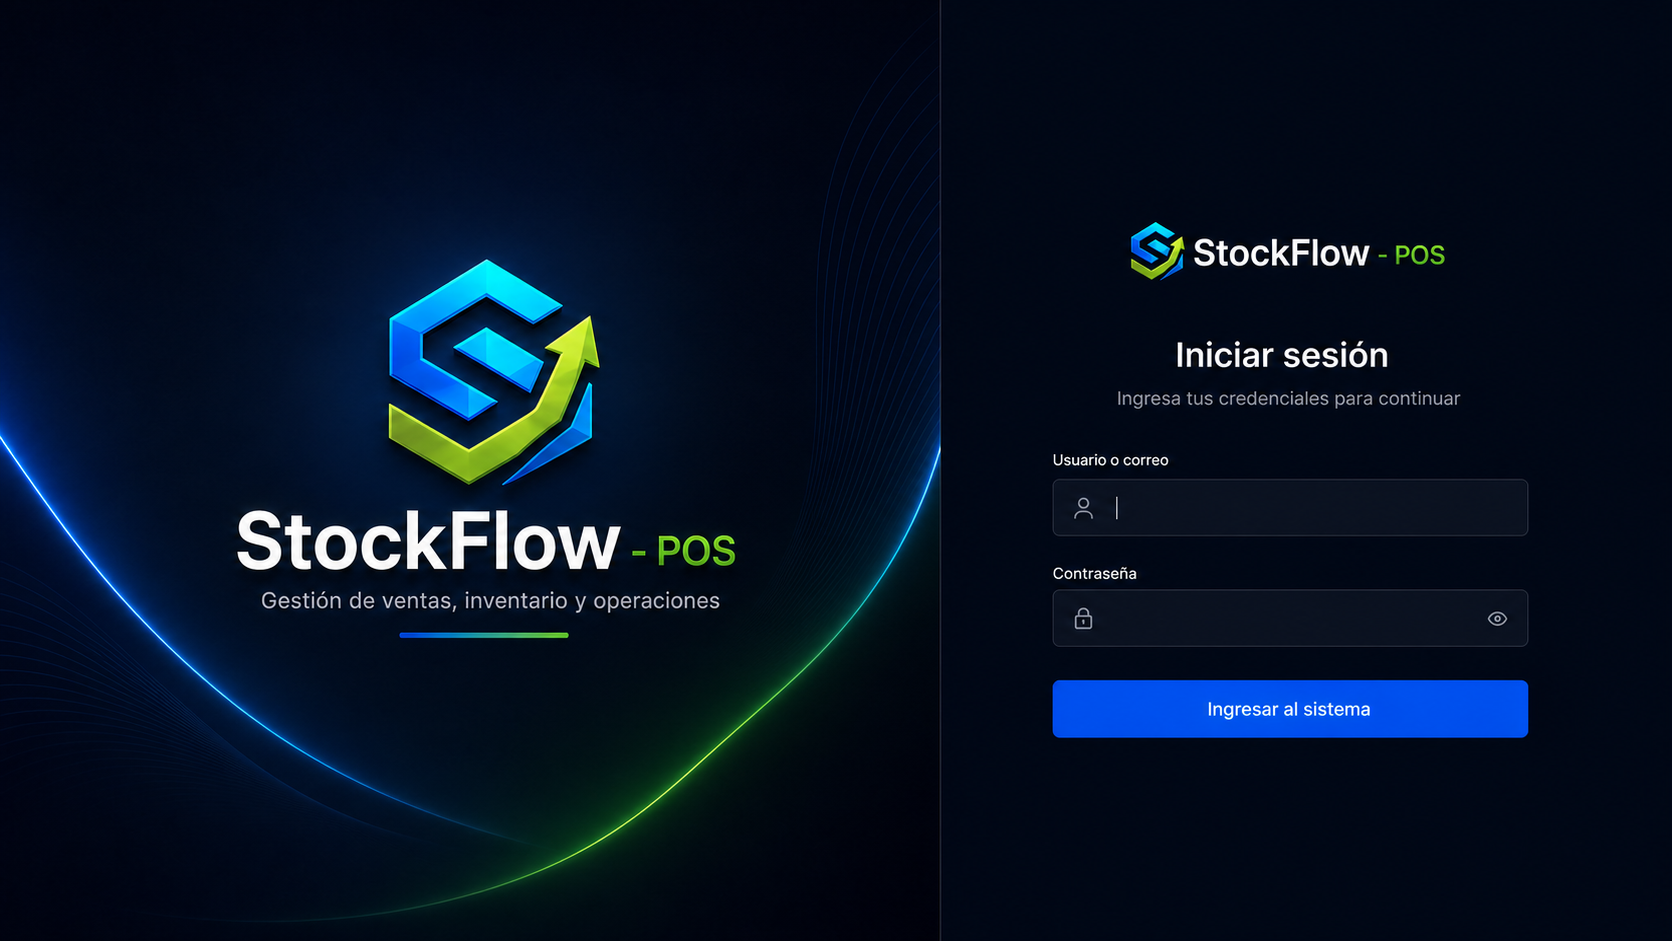
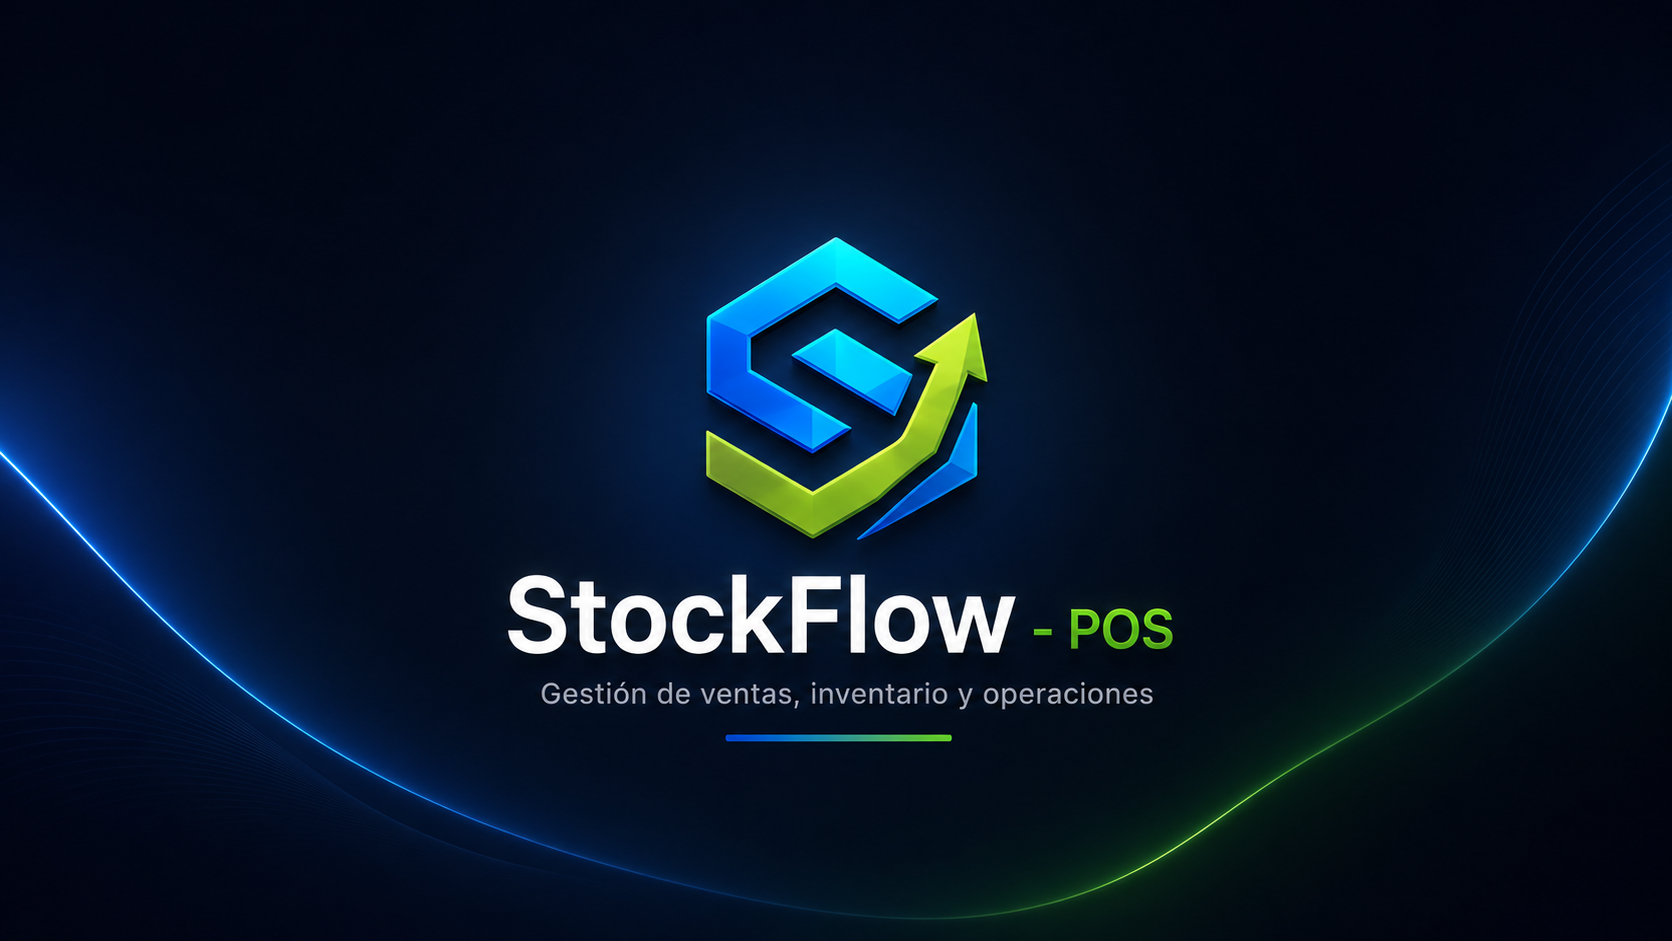
Fix duplicated login artwork

diff --git a/src/pages/auth/LoginPage.tsx b/src/pages/auth/LoginPage.tsx
@@ -30,7 +30,7 @@ export default function LoginPage() {
   return (
     <div className="min-h-screen bg-[#020915] text-surface-50 lg:grid lg:grid-cols-[58%_42%]">
       <section className="relative hidden min-h-screen overflow-hidden border-r border-white/10 lg:block">
-        <img src="/images/stockflow-login.png" alt="StockFlow POS" className="absolute inset-0 h-full w-full object-cover object-center" />
+        <img src="/images/stockflow-login.png" alt="StockFlow POS" className="absolute inset-0 h-full w-full object-contain" />
       </section>
       <main className="relative flex min-h-screen items-center justify-center overflow-hidden px-5 py-10 sm:px-8 lg:px-12">
         <div className="absolute inset-0 lg:hidden">
@@ -39,7 +39,7 @@ export default function LoginPage() {
         </div>
         <div className="relative z-10 w-full max-w-[30rem]">
           <div className="mb-10 flex items-center gap-3 lg:hidden">
-            <img src="/images/stockflow-login.png" alt="StockFlow POS" className="h-11 w-11 rounded-lg object-cover object-[51%_31%]" />
+            <div className="flex h-11 w-11 items-center justify-center rounded-lg border border-brand-400/40 bg-brand-600/20 text-lg font-bold text-lime-400">S</div>
             <div>
               <p className="text-lg font-bold leading-tight text-white">StockFlow <span className="text-lime-400">- POS</span></p>
               <p className="text-xs text-surface-200/50">Ventas, inventario y operaciones</p>